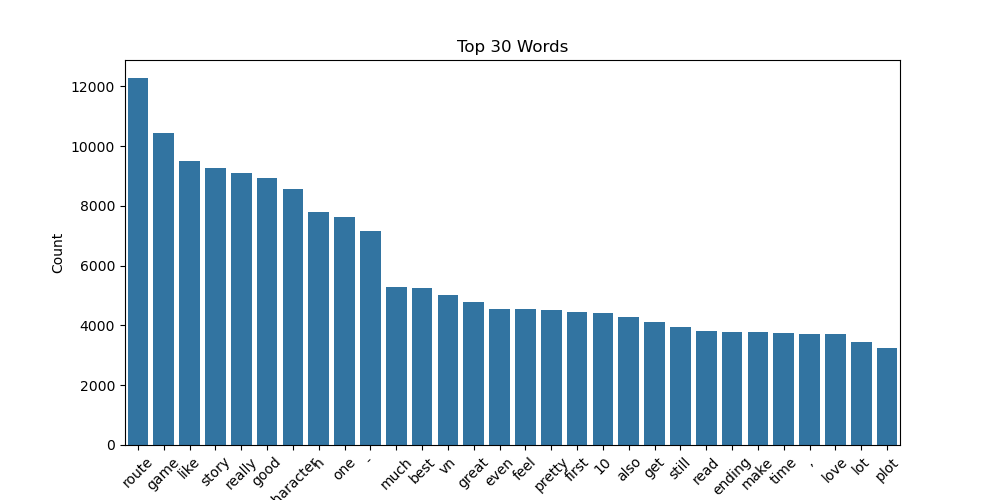
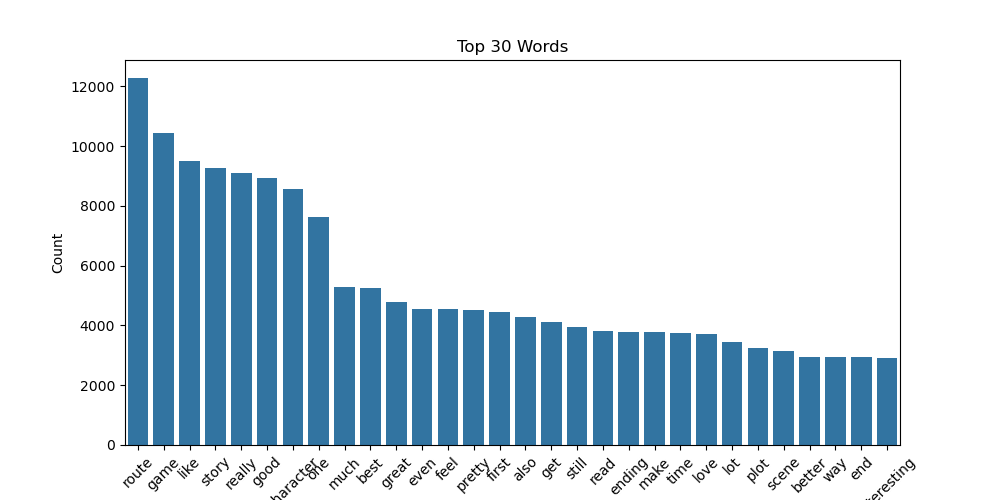
upd

Changed region(s): [[0.31, 0.9, 0.93, 1.0], [0.31, 0.42, 0.899, 0.72]]

diff --git a/dev/model.py b/dev/model.py
@@ -23,6 +23,14 @@ REPORT_PATH = 'logs/hyperparameter_report.csv'
 
 # plotting
 
+def top_n_words(texts, n=30):
+    from collections import Counter
+    all_words = ' '.join(texts).split()
+    counter = Counter(all_words)
+    common_words = counter.most_common(n)
+    words, counts = zip(*common_words)
+    return list(words)
+
 def plot_length_distribution(df):
     plt.figure(figsize=(8,4))
     sns.histplot(df['clean_notes'].apply(lambda x: len(x.split())), bins=30, kde=True)
@@ -31,25 +39,37 @@ def plot_length_distribution(df):
     plt.ylabel('Frequency')
     plt.savefig('img/word_count_distribution.png')
 
-def plot_wordcloud(df, label=1):
+def plot_wordcloud(df, label=1, top_words=None):
     from wordcloud import WordCloud
     text = ' '.join(df[df['class']==label]['clean_notes'])
+
+    if top_words:
+        for word in top_words:
+            text = text.replace(word, '')
+        text = re.sub(r'\s+', ' ', text).strip()
+
     wc = WordCloud(width=800, height=400, background_color='white').generate(text)
     plt.figure(figsize=(10,5))
     plt.imshow(wc, interpolation='bilinear')
     plt.axis('off')
-    plt.title(f'WordCloud for class={label}')
-    plt.savefig(f'img/wordcloud_class_{label}.png')
+    plt.title(f'WordCloud for class={label} (Excl. Common Terms)')
+    plt.savefig(f'img/wordcloud_class_{label}_excl.png')
 
-def plot_wordcloud_lengthy(df, label=1, min_length=50):
+def plot_wordcloud_lengthy(df, label=1, min_length=50, top_words=None):
     from wordcloud import WordCloud
     text = ' '.join(df[(df['class']==label) & (df['clean_notes'].str.len() >= min_length)]['clean_notes'])
+
+    if top_words:
+        for word in top_words:
+            text = text.replace(word, '')
+        text = re.sub(r'\s+', ' ', text).strip()
+    
     wc = WordCloud(width=800, height=400, background_color='white').generate(text)
     plt.figure(figsize=(10,5))
     plt.imshow(wc, interpolation='bilinear')
     plt.axis('off')
-    plt.title(f'WordCloud for class={label} with min length {min_length}')
-    plt.savefig(f'img/wordcloud_class_{label}_minlen_{min_length}.png')
+    plt.title(f'WordCloud for class={label} with min length {min_length} (Excl. Common Terms)')
+    plt.savefig(f'img/wordcloud_class_{label}_minlen_{min_length}_excl.png')
 
 def plot_top_words(df, n=20):
     from collections import Counter
@@ -76,7 +96,6 @@ def plot_length_vs_vote_scatter(df):
 
 def plot_top_words_vs_vote(df, n=10):
     # show top 10 words for each class
-    from collections import Counter
     from sklearn.feature_extraction.text import CountVectorizer
     vectorizer = CountVectorizer(max_features=1000, stop_words='english')
     X = vectorizer.fit_transform(df['clean_notes'])
@@ -88,16 +107,16 @@ def plot_top_words_vs_vote(df, n=10):
     _top_words = [feature_names[_top[i]] for i in range(nbin)]
     _top_counts = [_words[i][_top[i]] for i in range(nbin)]
 
-    plt.figure(figsize=(nbin * 3, 6))
+    plt.figure(figsize=(nbin * 4, 6))
     for i in range(nbin):
         plt.subplot(1, nbin, i + 1)
         sns.barplot(x=_top_words[i], y=_top_counts[i], palette='viridis')
-        plt.title(f'Top {n} Words for Vote Ranged {i * 20}-{(i + 1) * 20}')
+        plt.title(f'Top Words for Vote Ranged {i * 20}-{(i + 1) * 20}')
         plt.xlabel('Words')
         plt.ylabel('Count')
         plt.xticks(rotation=45)
     plt.tight_layout()
-    plt.savefig('img/top_words_vs_vote.png') 
+    plt.savefig('img/top_words_vs_vote_excl.png') 
 
 def plot_votes(df):
     sns.set(style="whitegrid")
@@ -698,14 +717,19 @@ def general_stat():
     df = df[df['word_count'] >= 5].reset_index(drop=True)
     df['class'] = pd.cut(df['vote'], bins=[0, 69, 100], labels=[0, 1])
 
+    # remove short words
+    df['clean_notes'] = df['clean_notes'].apply(lambda x: ' '.join([w for w in x.split() if len(w) > 2]))
+
+    top_words = top_n_words(df['clean_notes'].tolist(), n=30)
+
     # plot_length_distribution(df)
-    # plot_wordcloud(df, label=1)
-    # plot_wordcloud(df, label=0)
-    plot_wordcloud_lengthy(df, label=1, min_length=50)
-    plot_wordcloud_lengthy(df, label=0, min_length=50)
+    plot_wordcloud(df, label=1, top_words=top_words)
+    plot_wordcloud(df, label=0, top_words=top_words)
+    plot_wordcloud_lengthy(df, label=1, min_length=50, top_words=top_words)
+    plot_wordcloud_lengthy(df, label=0, min_length=50, top_words=top_words)
     plot_top_words(df, n=30)
     # plot_length_vs_vote_scatter(df)
-    plot_top_words_vs_vote(df)
+    plot_top_words_vs_vote(df, n=15)
 
 if __name__ == "__main__":
     # train_and_evaluate()
